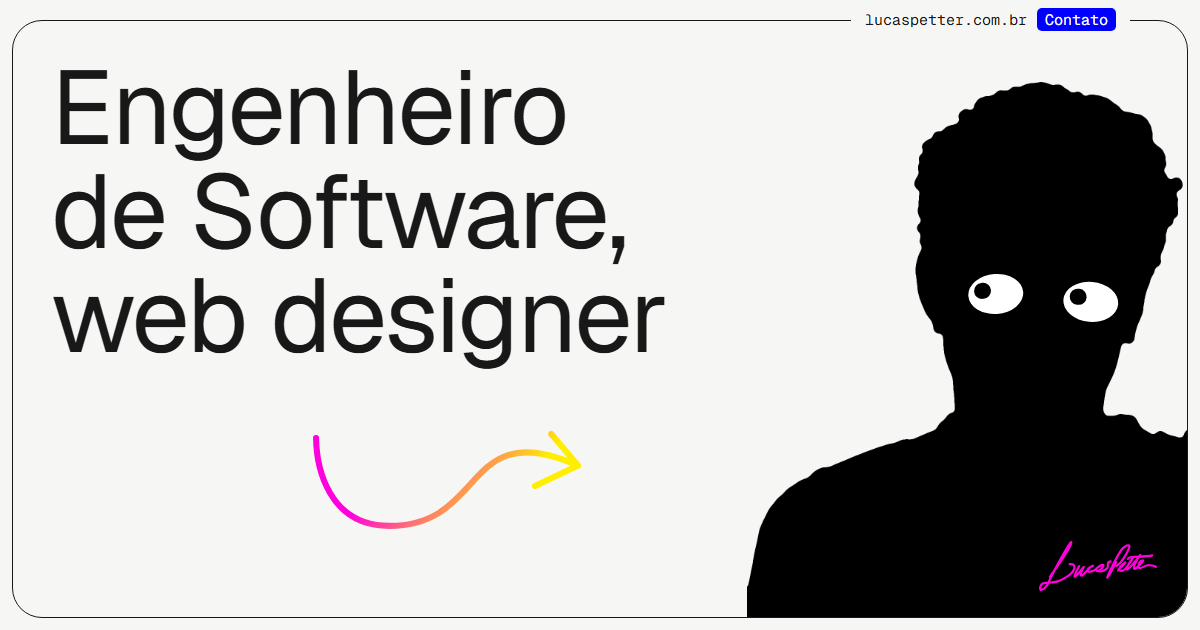
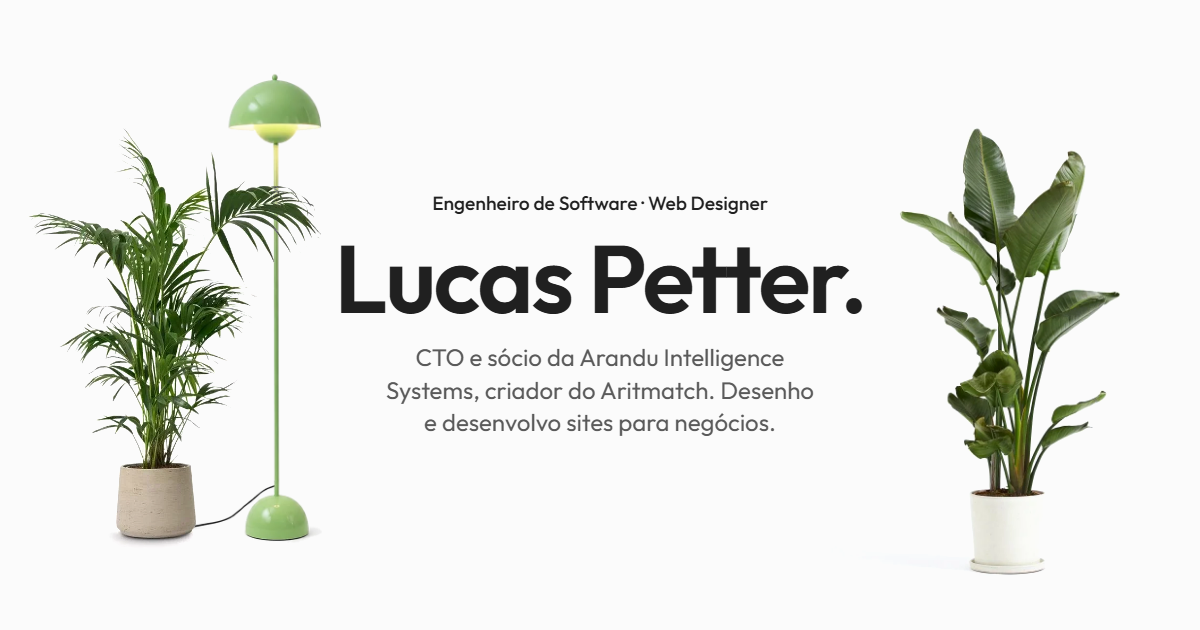
SEO: robots.txt, sitemap, dados estruturados e LinkedIn
- robots.txt liberando tudo e apontando o sitemap; sitemap.xml com a
  página e as imagens.
- Título e descrição com nome, Brasília, Arandu, Aritmatch e serviços;
  Open Graph e cartão do X completos; og.png novo, do hero atual.
- JSON-LD: Person, ProfessionalService com os 4 serviços, WebSite e
  ProfilePage; Arandu pelo mesmo @id que arandudf.com.br publica.
- Serviços, ferramentas e sites do carrossel escritos no HTML (antes só
  o JS os criava); texto alternativo em todas as imagens.
- LinkedIn no contato e no sameAs.

diff --git a/index.html b/index.html
@@ -3,22 +3,109 @@
 <head>
 <meta charset="utf-8">
 <meta name="viewport" content="width=device-width, initial-scale=1">
-<title>Lucas Petter</title>
-<meta name="description" content="Lucas Petter — engenheiro de software e web designer. CTO e sócio da Arandu Intelligence Systems, criador do Aritmatch. Desenho e desenvolvo sites para negócios.">
+<!-- Search: the title and description are what Google shows in the result.
+     Keep them true to what the page says; the JSON-LD below is the same facts
+     in a form Google reads as data (who, what, where, which links are his). -->
+<title>Lucas Petter — Web Designer e Engenheiro de Software | Criação de sites em Brasília</title>
+<meta name="description" content="Lucas Petter (Lucas de Moraes Petter), engenheiro de software e web designer em Brasília, DF. CTO e sócio da Arandu Intelligence Systems, criador do Aritmatch. Criação de sites institucionais, landing pages e desenvolvimento front-end para negócios.">
+<meta name="keywords" content="Lucas Petter, Lucas de Moraes Petter, web designer, web designer Brasília, criação de sites, criação de sites Brasília, desenvolvimento de sites, site institucional, landing page, desenvolvedor front-end, engenheiro de software, UI design, Arandu Intelligence Systems, Aritmatch, Distrito Federal">
+<meta name="author" content="Lucas de Moraes Petter">
+<meta name="robots" content="index, follow, max-image-preview:large, max-snippet:-1">
 <meta name="theme-color" content="#202020">
-<meta property="og:type" content="website">
-<meta property="og:url" content="https://lucaspetter.com.br/">
 <link rel="canonical" href="https://lucaspetter.com.br/">
-<meta property="og:title" content="Lucas Petter">
-<meta property="og:description" content="Engenheiro de Software, web designer.">
+<meta property="og:type" content="profile">
+<meta property="og:url" content="https://lucaspetter.com.br/">
+<meta property="og:site_name" content="Lucas Petter">
+<meta property="og:locale" content="pt_BR">
+<meta property="og:locale:alternate" content="en_US">
+<meta property="og:locale:alternate" content="zh_CN">
+<meta property="og:title" content="Lucas Petter — Web Designer e Engenheiro de Software">
+<meta property="og:description" content="CTO e sócio da Arandu Intelligence Systems, criador do Aritmatch. Desenho e desenvolvo sites para negócios.">
+<meta property="profile:first_name" content="Lucas">
+<meta property="profile:last_name" content="Petter">
 <meta property="og:image" content="https://lucaspetter.com.br/assets/og.png">
+<meta property="og:image:type" content="image/png">
 <meta property="og:image:width" content="1200">
 <meta property="og:image:height" content="630">
-<meta property="og:image:alt" content="Lucas Petter — Engenheiro de Software, web designer">
+<meta property="og:image:alt" content="Lucas Petter — Engenheiro de Software · Web Designer">
 <meta name="twitter:card" content="summary_large_image">
-<meta name="twitter:title" content="Lucas Petter">
-<meta name="twitter:description" content="Engenheiro de Software, web designer.">
+<meta name="twitter:creator" content="@lucasmpetter">
+<meta name="twitter:title" content="Lucas Petter — Web Designer e Engenheiro de Software">
+<meta name="twitter:description" content="CTO e sócio da Arandu Intelligence Systems, criador do Aritmatch. Desenho e desenvolvo sites para negócios.">
 <meta name="twitter:image" content="https://lucaspetter.com.br/assets/og.png">
+<meta name="twitter:image:alt" content="Lucas Petter — Engenheiro de Software · Web Designer">
+<script type="application/ld+json">
+{
+  "@context": "https://schema.org",
+  "@graph": [
+    {
+      "@type": "Person",
+      "@id": "https://lucaspetter.com.br/#lucas",
+      "name": "Lucas Petter",
+      "alternateName": ["Lucas de Moraes Petter", "Lucas M. Petter"],
+      "url": "https://lucaspetter.com.br/",
+      "image": "https://lucaspetter.com.br/assets/og.png",
+      "jobTitle": ["Engenheiro de Software", "Web Designer", "CTO"],
+      "description": "Engenheiro de software e web designer em Brasília. CTO e sócio da Arandu Intelligence Systems, criador do Aritmatch. Desenha e desenvolve sites para negócios.",
+      "email": "mailto:lucas.petter@arandudf.com.br",
+      "address": { "@type": "PostalAddress", "addressLocality": "Brasília", "addressRegion": "DF", "addressCountry": "BR" },
+      "worksFor": { "@id": "https://arandudf.com.br/#organizacao" },
+      "alumniOf": { "@type": "CollegeOrUniversity", "name": "UNICEPLAC — Centro Universitário do Planalto Central Apparecido dos Santos" },
+      "knowsAbout": ["Engenharia de software", "Web design", "Criação de sites", "Landing pages", "Desenvolvimento front-end", "UI design", "Design systems", "TypeScript", "React", "Next.js", "Node.js", "Python", "PostgreSQL", "Docker", "Figma"],
+      "sameAs": [
+        "https://instagram.com/lucasmpetter",
+        "https://x.com/lucasmpetter",
+        "https://github.com/lucasmpetter",
+        "https://www.linkedin.com/in/lucas-petter-1bb02b351"
+      ]
+    },
+    {
+      "@type": "Organization",
+      "@id": "https://arandudf.com.br/#organizacao",
+      "name": "Arandu Intelligence Systems",
+      "url": "https://arandudf.com.br/"
+    },
+    {
+      "@type": "ProfessionalService",
+      "@id": "https://lucaspetter.com.br/#servicos",
+      "name": "Lucas Petter — Web design para negócios",
+      "url": "https://lucaspetter.com.br/",
+      "image": "https://lucaspetter.com.br/assets/og.png",
+      "email": "lucas.petter@arandudf.com.br",
+      "founder": { "@id": "https://lucaspetter.com.br/#lucas" },
+      "areaServed": [{ "@type": "City", "name": "Brasília" }, { "@type": "Country", "name": "Brasil" }],
+      "address": { "@type": "PostalAddress", "addressLocality": "Brasília", "addressRegion": "DF", "addressCountry": "BR" },
+      "hasOfferCatalog": {
+        "@type": "OfferCatalog",
+        "name": "Serviços",
+        "itemListElement": [
+          { "@type": "Offer", "itemOffered": { "@type": "Service", "name": "Sites institucionais", "description": "Presença digital sob medida, rápida e fácil de manter." } },
+          { "@type": "Offer", "itemOffered": { "@type": "Service", "name": "Landing pages", "description": "Páginas focadas em conversão para lançamentos e campanhas." } },
+          { "@type": "Offer", "itemOffered": { "@type": "Service", "name": "UI & identidade digital", "description": "Direção visual, sistemas de interface e protótipos." } },
+          { "@type": "Offer", "itemOffered": { "@type": "Service", "name": "Desenvolvimento front-end", "description": "Do layout ao código em produção, com performance e acessibilidade." } }
+        ]
+      }
+    },
+    {
+      "@type": "WebSite",
+      "@id": "https://lucaspetter.com.br/#site",
+      "name": "Lucas Petter",
+      "url": "https://lucaspetter.com.br/",
+      "inLanguage": "pt-BR",
+      "publisher": { "@id": "https://lucaspetter.com.br/#lucas" }
+    },
+    {
+      "@type": "ProfilePage",
+      "@id": "https://lucaspetter.com.br/#pagina",
+      "url": "https://lucaspetter.com.br/",
+      "name": "Lucas Petter — Web Designer e Engenheiro de Software",
+      "inLanguage": "pt-BR",
+      "isPartOf": { "@id": "https://lucaspetter.com.br/#site" },
+      "mainEntity": { "@id": "https://lucaspetter.com.br/#lucas" }
+    }
+  ]
+}
+</script>
 <!-- The winged ox, symbol of Saint Luke: the same drawing as the contact section -->
 <link rel="icon" href="assets/touro.svg" type="image/svg+xml">
 <link rel="icon" href="assets/favicon-32.png" type="image/png" sizes="32x32">
@@ -28,7 +115,7 @@
 <!-- Outfit is the site; Geist 400 only for the loading screen, as on the old site -->
 <link href="https://fonts.googleapis.com/css2?family=Outfit:wght@400;500;600&family=Geist:wght@400&display=swap" rel="stylesheet">
 <!-- ?v= forces browsers to fetch new CSS/JS after each deploy (GitHub Pages caches for 10 min) -->
-<link rel="stylesheet" href="styles.css?v=20261105c">
+<link rel="stylesheet" href="styles.css?v=20261105d">
 <style>
   /* Loading screen, kept from the previous site. Inline on purpose: it must work
      even if a stale styles.css comes from cache. "Olá!" in several languages on
@@ -159,9 +246,28 @@
 
 <section class="works" aria-label="Sites">
   <div class="works-viewport">
-    <div class="works-track" id="worksTrack"></div>
+    <div class="works-track" id="worksTrack">
+      <a class="work" href="https://arandudf.com.br" target="_blank" rel="noopener" data-work="0">
+        <div class="work-card">
+          <img src="assets/og-arandu.webp" alt="Cartão do site arandudf.com.br: “Dados com forma.”" loading="lazy" width="1200" height="630">
+          <div class="work-bar"><span class="work-title">Arandu Intelligence Systems</span><span class="work-access" data-fill data-fill-color="#202020" data-fill-ink="#FBFBFB" data-i18n="access">Acessar</span></div>
+        </div>
+      </a>
+      <a class="work" href="https://aritmatch.com.br" target="_blank" rel="noopener" data-work="1">
+        <div class="work-card">
+          <img src="assets/og-aritmatch.webp" alt="Cartão do site aritmatch.com.br: “Do terreno ao caderno técnico.”" loading="lazy" width="1200" height="630">
+          <div class="work-bar"><span class="work-title">Aritmatch</span><span class="work-access" data-fill data-fill-color="#202020" data-fill-ink="#FBFBFB" data-i18n="access">Acessar</span></div>
+        </div>
+      </a>
+      <a class="work" href="https://institutorosa.com" target="_blank" rel="noopener" data-work="2">
+        <div class="work-card">
+          <img src="assets/og-institutorosa.webp" alt="Cartão do site institutorosa.com, de pilates e fisioterapia" loading="lazy" width="1200" height="630">
+          <div class="work-bar"><span class="work-title">Instituto Rosa</span><span class="work-access" data-fill data-fill-color="#202020" data-fill-ink="#FBFBFB" data-i18n="access">Acessar</span></div>
+        </div>
+      </a>
+    </div>
   </div>
-  <div class="works-dots" id="worksDots"></div>
+  <div class="works-dots" id="worksDots"><button class="works-dot" data-dot="0" aria-label="Arandu Intelligence Systems"><span></span></button><button class="works-dot" data-dot="1" aria-label="Aritmatch"><span></span></button><button class="works-dot" data-dot="2" aria-label="Instituto Rosa"><span></span></button></div>
 </section>
 
 <section class="about" data-sec="2">
@@ -174,14 +280,35 @@
     <h2 data-reveal="0" data-i18n="serv">Web design para negócios.</h2>
     <p data-reveal="60" data-i18n="servNote">Do primeiro rascunho ao site no ar.</p>
   </div>
-  <div class="services-grid" id="services"></div>
+  <div class="services-grid" id="services">
+    <div class="service" data-fill data-reveal="0">
+      <div class="service-n">01</div>
+      <h3 class="service-t">Sites institucionais</h3>
+      <p class="service-d">Presença digital sob medida, rápida e fácil de manter.</p>
+    </div>
+    <div class="service" data-fill data-reveal="100">
+      <div class="service-n">02</div>
+      <h3 class="service-t">Landing pages</h3>
+      <p class="service-d">Páginas focadas em conversão para lançamentos e campanhas.</p>
+    </div>
+    <div class="service" data-fill data-reveal="0">
+      <div class="service-n">03</div>
+      <h3 class="service-t">UI &amp; identidade digital</h3>
+      <p class="service-d">Direção visual, sistemas de interface e protótipos.</p>
+    </div>
+    <div class="service" data-fill data-reveal="100">
+      <div class="service-n">04</div>
+      <h3 class="service-t">Desenvolvimento front-end</h3>
+      <p class="service-d">Do layout ao código em produção, com performance e acessibilidade.</p>
+    </div>
+  </div>
   <a class="services-quote" data-fill data-touch="dark" data-reveal="0" href="mailto:lucas.petter@arandudf.com.br"><span data-i18n="quote">Solicitar orçamento</span> ›</a>
 </section>
 
 <section class="stack-row" data-sec="4">
   <div class="stack" data-reveal="0">
     <h3 data-i18n="stack">Ferramentas do dia a dia.</h3>
-    <div class="stack-list" id="stackList"></div>
+    <div class="stack-list" id="stackList"><div>TypeScript</div><div>React</div><div>Next.js</div><div>Node.js</div><div>Python</div><div>PostgreSQL</div><div>Docker</div><div>Figma</div><div>Design systems</div></div>
   </div>
   <div class="degree" data-sec="5" data-reveal="100">
     <div class="degree-status" data-i18n="status">Em conclusão</div>
@@ -198,6 +325,7 @@
     <a data-link href="https://instagram.com/lucasmpetter" target="_blank" rel="noopener">Instagram ›</a>
     <a data-link href="https://x.com/lucasmpetter" target="_blank" rel="noopener">X ›</a>
     <a data-link href="https://github.com/lucasmpetter" target="_blank" rel="noopener">GitHub ›</a>
+    <a data-link href="https://www.linkedin.com/in/lucas-petter-1bb02b351" target="_blank" rel="noopener">LinkedIn ›</a>
     <a data-link href="mailto:lucasdemoraespetter@gmail.com"><span data-i18n="mail">Email pessoal</span> ›</a>
   </div>
   <div class="bull-wrap" data-reveal="240">
@@ -219,6 +347,6 @@
 
 </div>
 
-<script src="script.js?v=20261105c"></script>
+<script src="script.js?v=20261105d"></script>
 </body>
 </html>

diff --git a/script.js b/script.js
@@ -60,35 +60,25 @@
   };
   const LANG_CODE = { pt: 'PT', en: 'EN', zh: '中文' };
   const HTML_LANG = { pt: 'pt-BR', en: 'en', zh: 'zh-CN' };
-  const STACK = ['TypeScript', 'React', 'Next.js', 'Node.js', 'Python', 'PostgreSQL', 'Docker', 'Figma', 'Design systems'];
-  // The sites in the carousel, with the share card (Open Graph) each one publishes
-  const WORKS = [
-    { title: 'Arandu Intelligence Systems', url: 'https://arandudf.com.br', img: 'assets/og-arandu.webp' },
-    { title: 'Aritmatch', url: 'https://aritmatch.com.br', img: 'assets/og-aritmatch.webp' },
-    { title: 'Instituto Rosa', url: 'https://institutorosa.com', img: 'assets/og-institutorosa.webp' }
-  ];
 
   let lang = 'pt';
   try { const saved = localStorage.getItem('lp-lang'); if (COPY[saved]) lang = saved; } catch (e) {}
 
-  // ---------- Static lists ----------
-  $('#stackList').innerHTML = STACK.map(s => `<div>${s}</div>`).join('');
-  const track = $('#worksTrack'), dots = $('#worksDots');
-  track.innerHTML = WORKS.map((w, i) => `
-    <a class="work" href="${w.url}" target="_blank" rel="noopener" data-work="${i}">
-      <div class="work-card">
-        <img src="${w.img}" alt="" loading="lazy">
-        <div class="work-bar"><span class="work-title">${w.title}</span><span class="work-access" data-fill data-fill-color="#202020" data-fill-ink="#FBFBFB" data-i18n="access">Acessar</span></div>
-      </div>
-    </a>`).join('');
-  dots.innerHTML = WORKS.map((w, i) => `<button class="works-dot" data-dot="${i}" aria-label="${w.title}"><span></span></button>`).join('');
+  // ---------- Lists ----------
+  // The carousel, the toolkit and the services are written in index.html (in
+  // Portuguese) so search engines read them without running this script. Only
+  // the services change with the language; the rest reads the same in all three.
+  const track = $('#worksTrack');
+  let servicesLang = 'pt'; // the language index.html was written in
 
   function renderServices() {
+    if (lang === servicesLang) return;
+    servicesLang = lang;
     $('#services').innerHTML = COPY[lang].services.map((s, i) => `
       <div class="service" data-fill${reduce ? '' : ` data-reveal="${(i % 2) * 100}"`}>
         <div class="service-n">${String(i + 1).padStart(2, '0')}</div>
-        <div class="service-t">${s[0]}</div>
-        <div class="service-d">${s[1]}</div>
+        <h3 class="service-t">${s[0].replace(/&/g, '&amp;')}</h3>
+        <p class="service-d">${s[1]}</p>
       </div>`).join('');
   }
 
@@ -221,7 +211,7 @@
     cLast = now;
     const p = Math.min(1, (now - cStart) / 5000);
     dotEls[cIdx].firstChild.style.width = (p * 100) + '%';
-    if (p >= 1) showWork((cIdx + 1) % WORKS.length);
+    if (p >= 1) showWork((cIdx + 1) % works.length);
   }
 
   // ---------- Scroll bar ----------

diff --git a/styles.css b/styles.css
@@ -207,8 +207,8 @@ button { font-family: inherit; }
 }
 .service { background: #f0f0f0; padding: 44px 28px; display: flex; flex-direction: column; align-items: center; gap: 10px; }
 .service-n { font-size: 15px; font-weight: 500; }
-.service-t { font-size: 26px; font-weight: 600; letter-spacing: -.015em; }
-.service-d { max-width: 360px; font-size: 17px; line-height: 1.5; color: var(--muted); }
+.service-t { margin: 0; font-size: 26px; font-weight: 600; letter-spacing: -.015em; }
+.service-d { margin: 0; max-width: 360px; font-size: 17px; line-height: 1.5; color: var(--muted); }
 .services-quote { font-size: 19px; font-weight: 500; padding: 14px 26px; border-radius: 999px; }
 
 /* ---------- Stack + degree ---------- */
